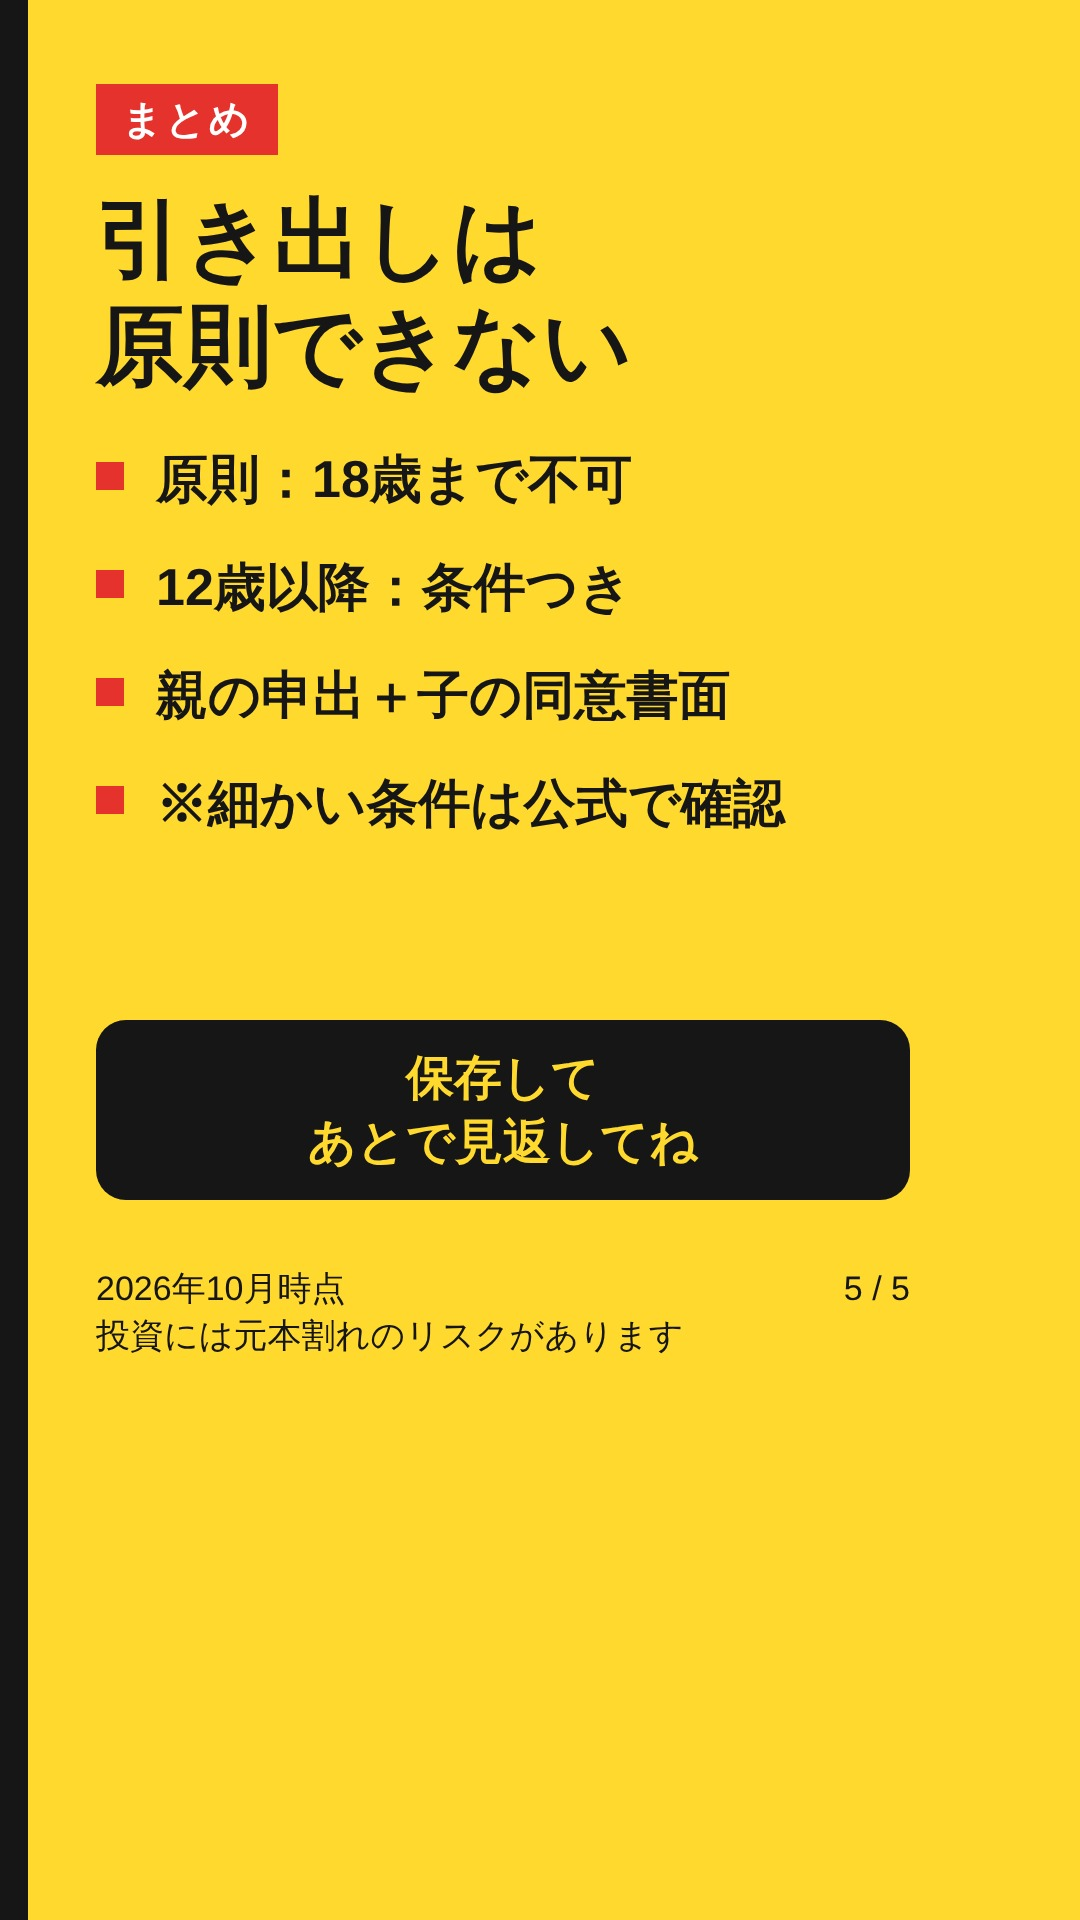
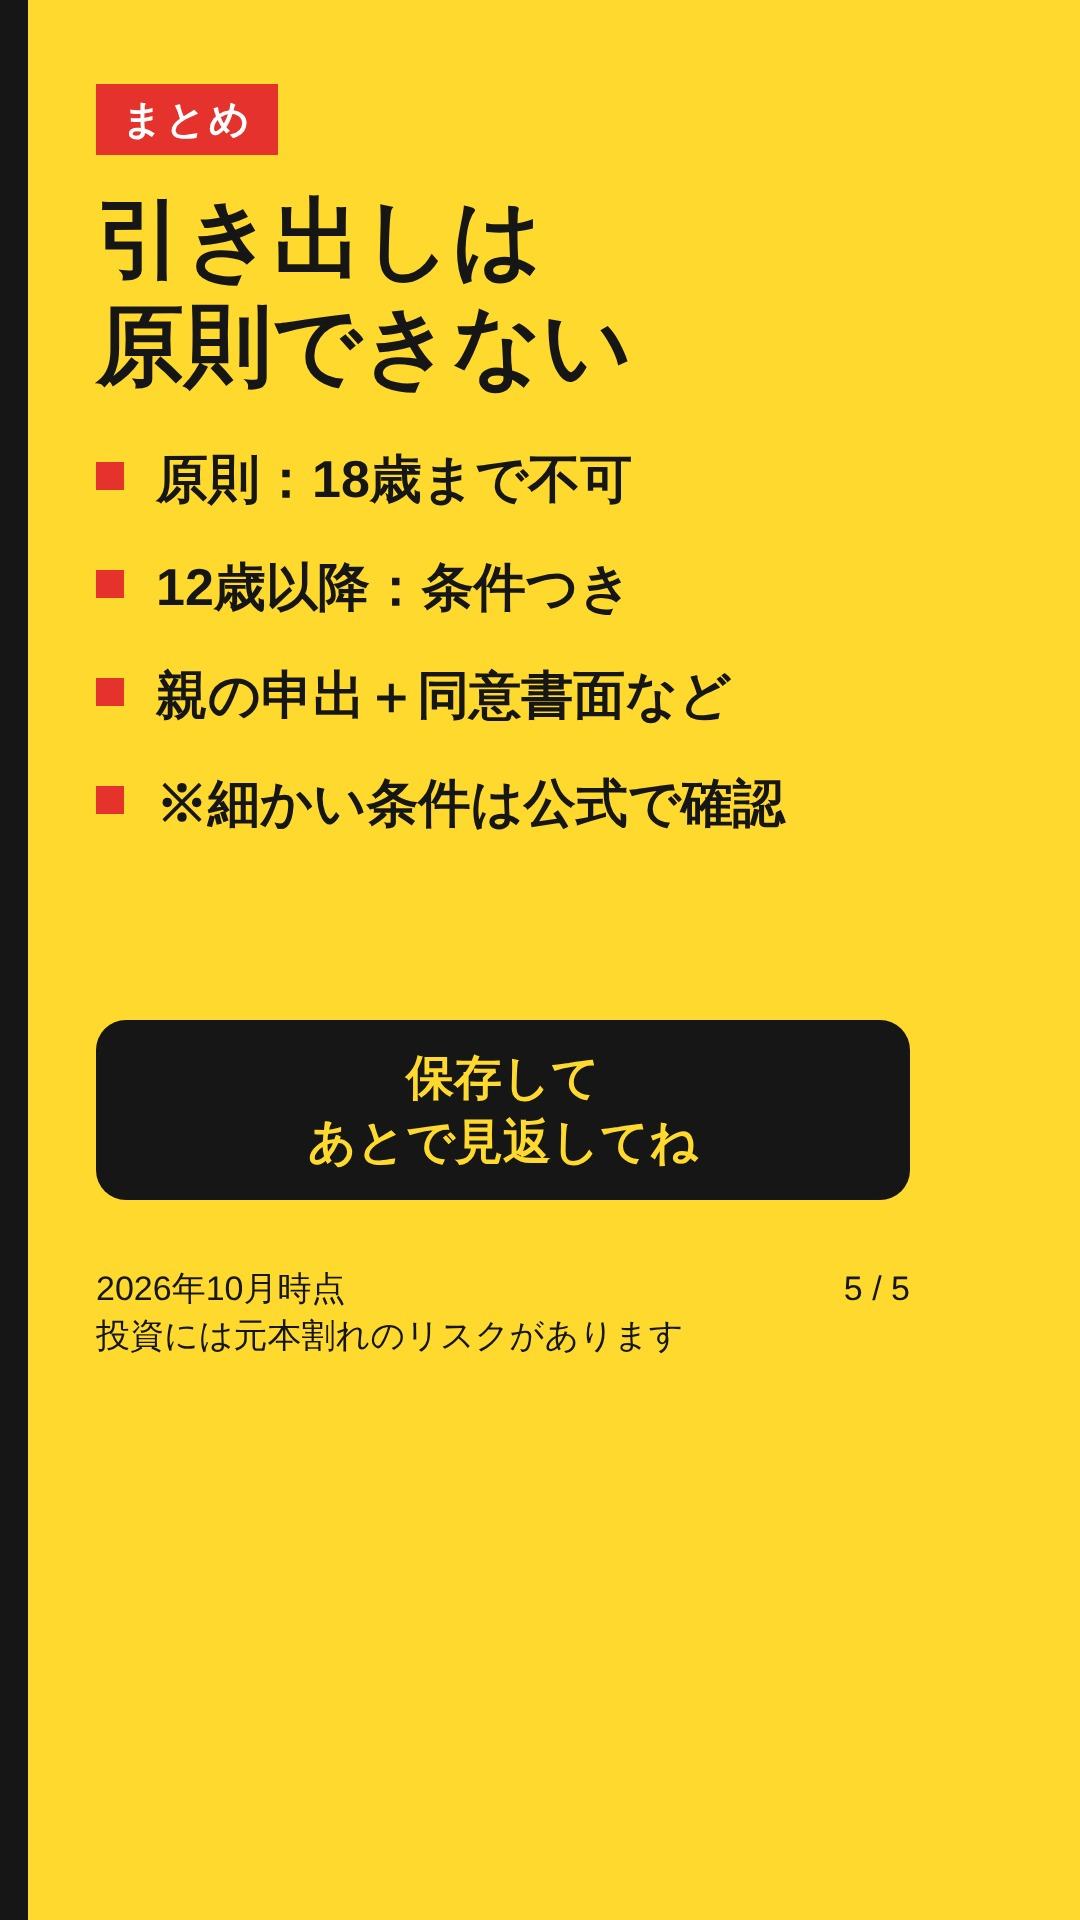
TikTok 10 12歳から引き出せる？: 検品合格・5枚目修正・記録
Claude-Session: https://claude.ai/code/session_01PC76omDo7WCCQDWvVtVqoj

Changed region(s): [[0.3667, 0.3438, 0.6722, 0.375]]

diff --git a/reviews/tiktok-2026-10-21.md b/reviews/tiktok-2026-10-21.md
@@ -1,0 +1,56 @@
+# 検品: TikTok写真投稿 10 12歳から引き出せる？（第1回）
+- 検品日: 2026-10-21
+- 対象: posts/tiktok/10-harai-dashi.json、posts/tiktok/10-harai-dashi/slide-01〜05.jpg（全5枚を目視）、narration-140.md「10」、captions.md「10」
+- 根拠: research/20261018-oya-nisa-yusen.md（76〜78行目、金融庁・財務省の原文引用）、research/20261010-kodomo-nisa.md（20行目 払出しの行）、docs/compliance.md、docs/tiktok-flow.md
+- 判定: 【合格】
+- スコア: A法令 OK ・ B事実 4/5 ・ C企画SEO 4/5 ・ D読みやすさ 4/5
+
+注: リンクなし・アフィリエイト要素なしのため、PR表記は不要（前例と同じ扱い）。公式ページの WebFetch 再確認はしていない。事実確認は research の原文引用（官公庁）による。
+
+## 必須修正（差し戻し理由）
+なし。
+
+## A 法令（OK）
+- 最上級表現、利回り保証、個別商品・会社名の推奨、勧誘（「始めよう」「使うべき」等）はない。
+- 元本割れ：全5枚のフッター、台本（末尾「元本割れの注意もあります」）、キャプションにある。
+- 時点：全5枚のフッターに「2026年10月時点」、キャプションにも「※2026年10月時点」がある。
+- 断定回避：2〜4枚目の本文はすべて「とされています」。キャプションに「公表資料にもとづく整理」、台本・5枚目に「細かい条件は公式で確認」がある。
+- 税・贈与税、払出し違反時の課税には触れていない（OK）。体験の捏造なし。吹き出しは感想のみ。
+- 「CTA：保存してあとで見返してね」は行動喚起だが、金融商品の勧誘ではない（前例と同じ扱い）。
+
+## B 事実（4/5）
+- 「0〜17歳は原則払い出せない」「12歳以降は一定の要件で払出し可」「親権者等が申出書を提出」「子の同意を示す書面」は、research（76〜77行目、kodomo-nisa 20行目）と一致。「原則18歳まで不可」も同じ趣旨で誤りなし。
+- 減点1：research の払出し要件には「資金を子のために使うこと」もあるが、画像・台本・キャプションのどこにも出ていない。5枚目「親の申出＋子の同意書面」だけを見ると、この2つが揃えば足りる、と読める。「細かい条件は公式で確認」の逃げはあるが、要件の一部が抜けている。
+- 減点2：3枚目の見出し「12歳以降は条件つきで可」の「可」は、本文の留保（とされています）より強く、5枚目の見出し「引き出しは原則できない」「親の申出＋子の同意書面」も留保が外れている。まとめ枠としては許容範囲。
+- 台本の「親権者など」と画像の「親権者等」「親」は同義で、実害なし。
+
+## C 企画SEO（4/5）
+- 「12歳から引き出せる？条件は？」という検索意図に、1枚目の問い、2枚目の原則、3枚目の例外、4枚目の条件、5枚目のまとめで答えている。1枚1論点。
+- 台本は実測約113字（narration-140.md の記載は117字）。どちらでも140字以内。台本・キャプション・画像の内容は一致（原則18歳まで不可／12歳以降条件つき／申出書＋同意書面／公式確認）。
+- キャプションは、時点・元本割れ・「公表資料にもとづく整理」あり。ハッシュタグは内容に合う。
+- 減点：1枚目で「条件は？」と問うのに、条件は「申出書＋同意書面」の2つだけで、使途の条件には答えていない（B減点1と同根）。
+
+## D 読みやすさ（4/5）
+- 途中改行は文節で折れている。1枚目「12歳から／引き出せる？／条件は？」、2枚目「0〜17歳のあいだは、／原則として引き出せない／とされています。」、3枚目「12歳以降は、一定の／条件のもとで引き出せる／とされています。」、4枚目「親権者等が申出書を出し、／子の同意を示す書面を／添えるとされています。」。
+- 5枚目の箇条書き4点は1行ずつ（最長の4つ目で x≒785、右端の目安940以内）。吹き出しは全て1行。
+- 下部UI領域：フッターは y≒1270〜1350、吹き出し・キャラは y≒940〜1200、CTAは y≒1020〜1200。隠れる領域（y≒1440以降）に文字はかからない。
+- 減点：1枚目の y≒600〜900、2〜4枚目の y≒680〜1060 が空白で間延びしている（06・09 と同じ指摘）。
+
+## 推奨修正（合格を妨げない）
+- 払出し要件に「資金を子のために使うこと」を足す。例：4枚目を「親権者等の申出書と、子の同意を示す書面などが必要とされています」にして、「など」で他の要件があることを示す。台本・キャプションも合わせる。
+- 3枚目の見出し「条件つきで可」を「条件つきとされる」などに寄せる。
+- 5枚目の「親の申出＋子の同意書面」を「親の申出＋子の同意書面など」にする。
+- 左端の黒い縞（約28px）が全5枚に残っている（シリーズ共通、まとめて対応）。
+- 空白の間延び（見出しを少し下げる、または要点を足す）。
+- narration-140.md の文字数表記「117字」を実測（約113字）に直す。
+
+## 良かった点
+- 元本割れ・時点・「とされています」・「公式で確認」が、画像・台本・キャプションのすべてにそろっている。
+- 贈与税・払出し違反時の課税に触れず、リンクもなし。方針どおり。
+- 「原則」と「例外」の2段階で、1枚目の問いにそのまま答える構成。
+- 読む人に払出しを勧めず、事実の整理に徹している。
+
+## 次の対応
+- 合格。社長が公開待ちへ進めてよい。recorder に、第1回での合格と、推奨（使途要件の欠落・「可」の言い方・5枚目の留保・黒い縞・空白）を記録させる。
+
+追記(社長): 推奨修正のうち5枚目を「親の申出＋同意書面など」に修正（他の条件がある旨を示す）。再生成済み。
